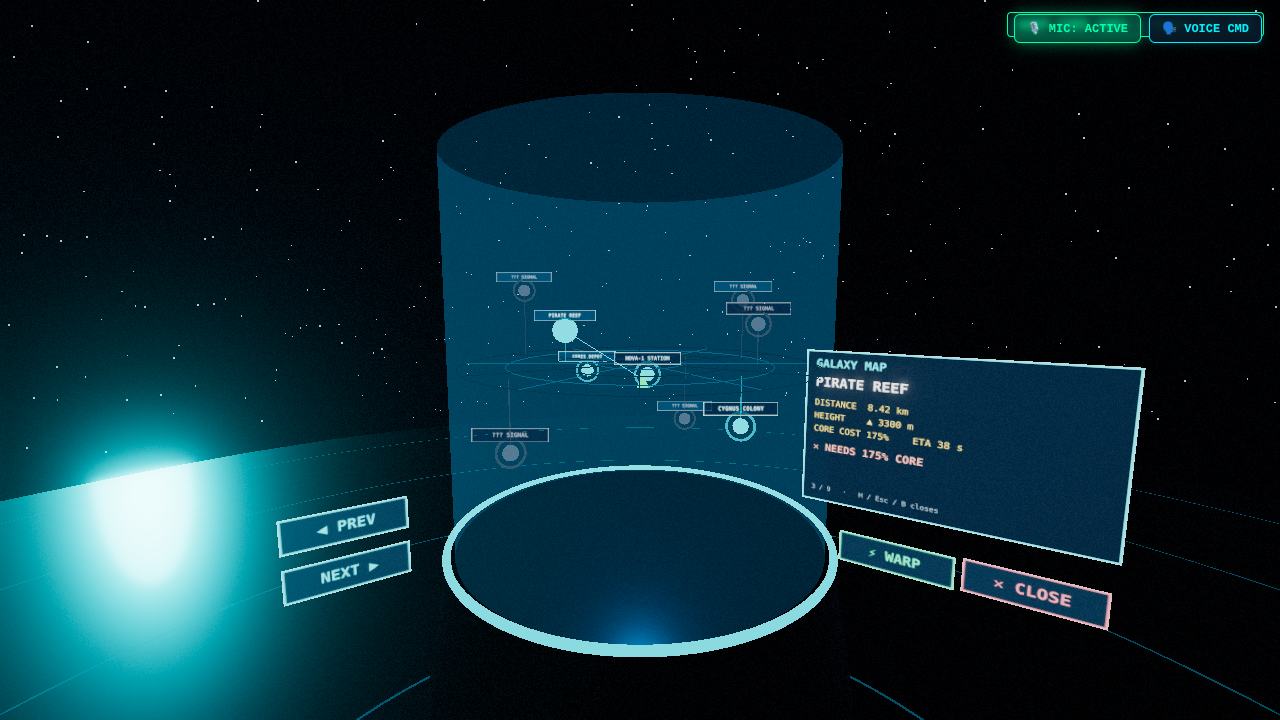
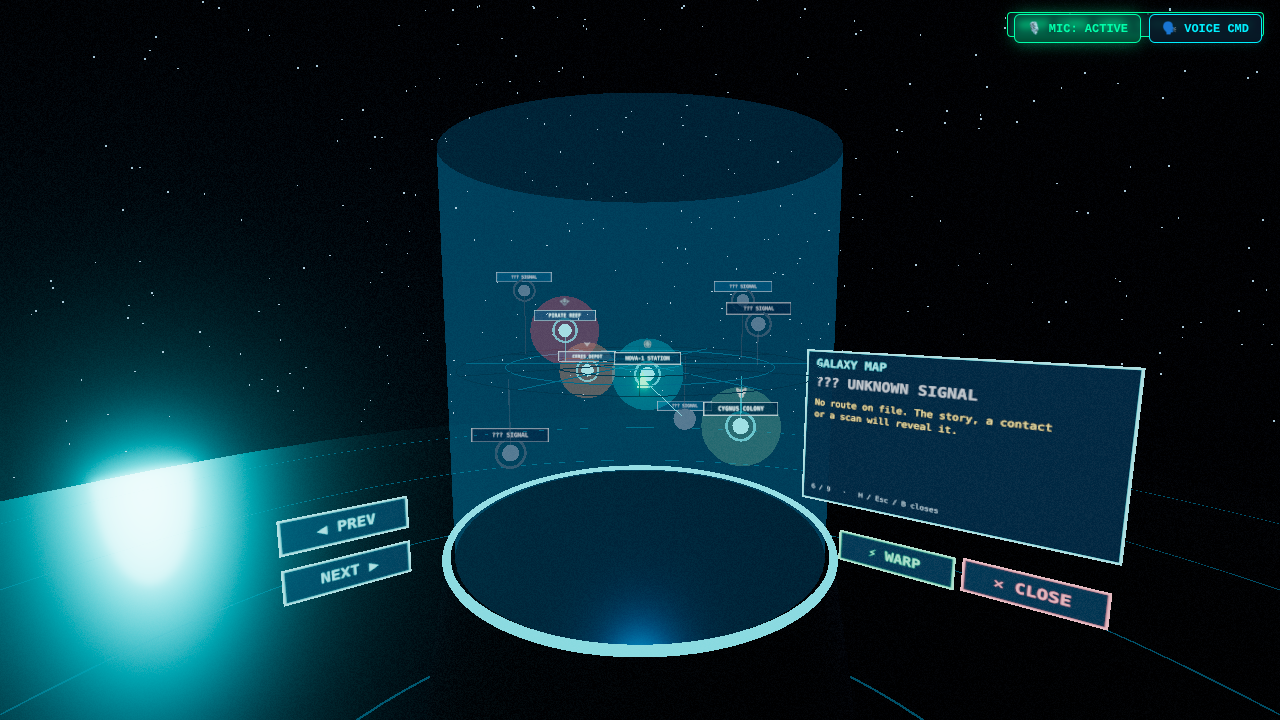
Galaxy map: faction territory bubbles + emblems, territory line in the info panel
Claude-Session: https://claude.ai/code/session_01Rs5n8yXML6Z8zooWasvHTA

Changed region(s): [[0.4062, 0.3972, 0.8125, 0.6722]]

diff --git a/modules/galaxy_map.js b/modules/galaxy_map.js
@@ -59,6 +59,18 @@ export function init(nova) {
   const btnPrev = button('◀ PREV', '#33e6ff', -1.6, 1.25, () => step(-1)); btnPrev.rotation.y = 0.6; btnPrev.position.z = -1.0;
   const btnNext = button('NEXT ▶', '#33e6ff', -1.6, 0.98, () => step(1)); btnNext.rotation.y = 0.6; btnNext.position.z = -1.0;
 
+  // territory: which faction holds each destination (playtest mapping; see art/emblems/manifest.json for emblems)
+  const TERR = { station: ['nova_1', 0x33e6ff, 'NOVA-1 AUTHORITY'], ceres: ['ceres_mining', 0xffb347, 'CERES MINING CO-OP'], colony: ['neutral_civilian', 0x9fd8a8, 'CIVILIAN'],
+    reef: ['red_wake', 0xff4455, 'RED WAKE PIRATES'], lantern: ['lantern_freeports', 0xffcc55, 'LANTERN FREEPORTS'], meridian: ['meridian_combine', 0xb98cff, 'MERIDIAN COMBINE'],
+    mindspace: ['veyran_assembly', 0x55ffcc, 'VEYRAN ASSEMBLY'], graveyard: [null, 0x8899aa, 'UNCLAIMED'], frost: [null, 0x8899aa, 'UNCLAIMED'] };
+  const EMB = {}; fetch(new URL('../art/emblems/manifest.json', import.meta.url).href).then(r => r.json()).then(m => (m.emblems || []).forEach(e => { EMB[e.faction] = e.id.replace('emblem_', ''); })).catch(() => { });
+  const embTex = {}, tl = new T.TextureLoader();
+  function emblemSprite(faction) {
+    const id = EMB[faction]; if (!id) return null;
+    const t = embTex[id] || (embTex[id] = tl.load(new URL('../art/emblems/decal_' + id + '.png', import.meta.url).href));
+    const sp = new T.Sprite(new T.SpriteMaterial({ map: t, transparent: true, depthWrite: false })); sp.scale.set(0.09, 0.09, 1); return sp;
+  }
+  const bubbleGeo = new T.SphereGeometry(1, 24, 16);
   function dests() { return (window.NW_DESTS || []).filter(d => d.id !== 'fwd' && d.pos); }
   function rebuild() {
     S.items.forEach(it => holo.remove(it.g)); S.items = [];
@@ -77,6 +89,12 @@ export function init(nova) {
       const stem = new T.Mesh(new T.CylinderGeometry(0.004, 0.004, Math.abs(g.position.y), 6), new T.MeshBasicMaterial({ color: col, transparent: true, opacity: 0.35 }));
       stem.position.y = -g.position.y / 2; g.add(stem);   // drop line to the plane shows height
       const lab = label(locked ? '??? SIGNAL' : d.name, locked ? '#667788' : '#9fefff', 0.42); lab.position.y = 0.1; g.add(lab);
+      const tr = !locked && TERR[d.id];
+      if (tr) {   // territory bubble + faction emblem
+        const bub = new T.Mesh(bubbleGeo, new T.MeshBasicMaterial({ color: tr[1], transparent: true, opacity: 0.1, depthWrite: false, blending: T.AdditiveBlending }));
+        bub.scale.setScalar(0.16 + Math.min(0.12, (d.r || 200) / 4000)); g.add(bub);
+        const em = tr[0] && emblemSprite(tr[0]); if (em) { em.position.y = 0.19; g.add(em); }
+      }
       holo.add(g); S.items.push({ d, g, n, h, locked });
     });
     shipMark.position.copy(S.map(ship.clone()));
@@ -94,6 +112,7 @@ export function init(nova) {
     const g = panelC.getContext('2d'), it = S.items[S.sel]; g.clearRect(0, 0, 1024, 640);
     g.fillStyle = 'rgba(3,12,22,0.92)'; g.fillRect(0, 0, 1024, 640); g.strokeStyle = '#33e6ff'; g.lineWidth = 8; g.strokeRect(4, 4, 1016, 632);
     g.fillStyle = '#33e6ff'; g.font = 'bold 44px monospace'; g.fillText('GALAXY MAP', 40, 70);
+    if (it) { const tr = !it.locked && TERR[it.d.id]; if (tr) { g.fillStyle = '#' + tr[1].toString(16).padStart(6, '0'); g.font = 'bold 30px monospace'; g.fillText('TERRITORY · ' + tr[2], 40, 490); } }
     if (!it) { g.fillStyle = '#9fc3d8'; g.font = '32px monospace'; g.fillText('No routes on file.', 40, 160); panelT.needsUpdate = true; return; }
     const inf = info(it.d), ship = window.shipGroup ? window.shipGroup.position : new T.Vector3();
     let dy = 0; try { dy = it.d.pos().y - ship.y; } catch (e) { }

diff --git a/public/modules/galaxy_map.js b/public/modules/galaxy_map.js
@@ -59,6 +59,18 @@ export function init(nova) {
   const btnPrev = button('◀ PREV', '#33e6ff', -1.6, 1.25, () => step(-1)); btnPrev.rotation.y = 0.6; btnPrev.position.z = -1.0;
   const btnNext = button('NEXT ▶', '#33e6ff', -1.6, 0.98, () => step(1)); btnNext.rotation.y = 0.6; btnNext.position.z = -1.0;
 
+  // territory: which faction holds each destination (playtest mapping; see art/emblems/manifest.json for emblems)
+  const TERR = { station: ['nova_1', 0x33e6ff, 'NOVA-1 AUTHORITY'], ceres: ['ceres_mining', 0xffb347, 'CERES MINING CO-OP'], colony: ['neutral_civilian', 0x9fd8a8, 'CIVILIAN'],
+    reef: ['red_wake', 0xff4455, 'RED WAKE PIRATES'], lantern: ['lantern_freeports', 0xffcc55, 'LANTERN FREEPORTS'], meridian: ['meridian_combine', 0xb98cff, 'MERIDIAN COMBINE'],
+    mindspace: ['veyran_assembly', 0x55ffcc, 'VEYRAN ASSEMBLY'], graveyard: [null, 0x8899aa, 'UNCLAIMED'], frost: [null, 0x8899aa, 'UNCLAIMED'] };
+  const EMB = {}; fetch(new URL('../art/emblems/manifest.json', import.meta.url).href).then(r => r.json()).then(m => (m.emblems || []).forEach(e => { EMB[e.faction] = e.id.replace('emblem_', ''); })).catch(() => { });
+  const embTex = {}, tl = new T.TextureLoader();
+  function emblemSprite(faction) {
+    const id = EMB[faction]; if (!id) return null;
+    const t = embTex[id] || (embTex[id] = tl.load(new URL('../art/emblems/decal_' + id + '.png', import.meta.url).href));
+    const sp = new T.Sprite(new T.SpriteMaterial({ map: t, transparent: true, depthWrite: false })); sp.scale.set(0.09, 0.09, 1); return sp;
+  }
+  const bubbleGeo = new T.SphereGeometry(1, 24, 16);
   function dests() { return (window.NW_DESTS || []).filter(d => d.id !== 'fwd' && d.pos); }
   function rebuild() {
     S.items.forEach(it => holo.remove(it.g)); S.items = [];
@@ -77,6 +89,12 @@ export function init(nova) {
       const stem = new T.Mesh(new T.CylinderGeometry(0.004, 0.004, Math.abs(g.position.y), 6), new T.MeshBasicMaterial({ color: col, transparent: true, opacity: 0.35 }));
       stem.position.y = -g.position.y / 2; g.add(stem);   // drop line to the plane shows height
       const lab = label(locked ? '??? SIGNAL' : d.name, locked ? '#667788' : '#9fefff', 0.42); lab.position.y = 0.1; g.add(lab);
+      const tr = !locked && TERR[d.id];
+      if (tr) {   // territory bubble + faction emblem
+        const bub = new T.Mesh(bubbleGeo, new T.MeshBasicMaterial({ color: tr[1], transparent: true, opacity: 0.1, depthWrite: false, blending: T.AdditiveBlending }));
+        bub.scale.setScalar(0.16 + Math.min(0.12, (d.r || 200) / 4000)); g.add(bub);
+        const em = tr[0] && emblemSprite(tr[0]); if (em) { em.position.y = 0.19; g.add(em); }
+      }
       holo.add(g); S.items.push({ d, g, n, h, locked });
     });
     shipMark.position.copy(S.map(ship.clone()));
@@ -94,6 +112,7 @@ export function init(nova) {
     const g = panelC.getContext('2d'), it = S.items[S.sel]; g.clearRect(0, 0, 1024, 640);
     g.fillStyle = 'rgba(3,12,22,0.92)'; g.fillRect(0, 0, 1024, 640); g.strokeStyle = '#33e6ff'; g.lineWidth = 8; g.strokeRect(4, 4, 1016, 632);
     g.fillStyle = '#33e6ff'; g.font = 'bold 44px monospace'; g.fillText('GALAXY MAP', 40, 70);
+    if (it) { const tr = !it.locked && TERR[it.d.id]; if (tr) { g.fillStyle = '#' + tr[1].toString(16).padStart(6, '0'); g.font = 'bold 30px monospace'; g.fillText('TERRITORY · ' + tr[2], 40, 490); } }
     if (!it) { g.fillStyle = '#9fc3d8'; g.font = '32px monospace'; g.fillText('No routes on file.', 40, 160); panelT.needsUpdate = true; return; }
     const inf = info(it.d), ship = window.shipGroup ? window.shipGroup.position : new T.Vector3();
     let dy = 0; try { dy = it.d.pos().y - ship.y; } catch (e) { }
